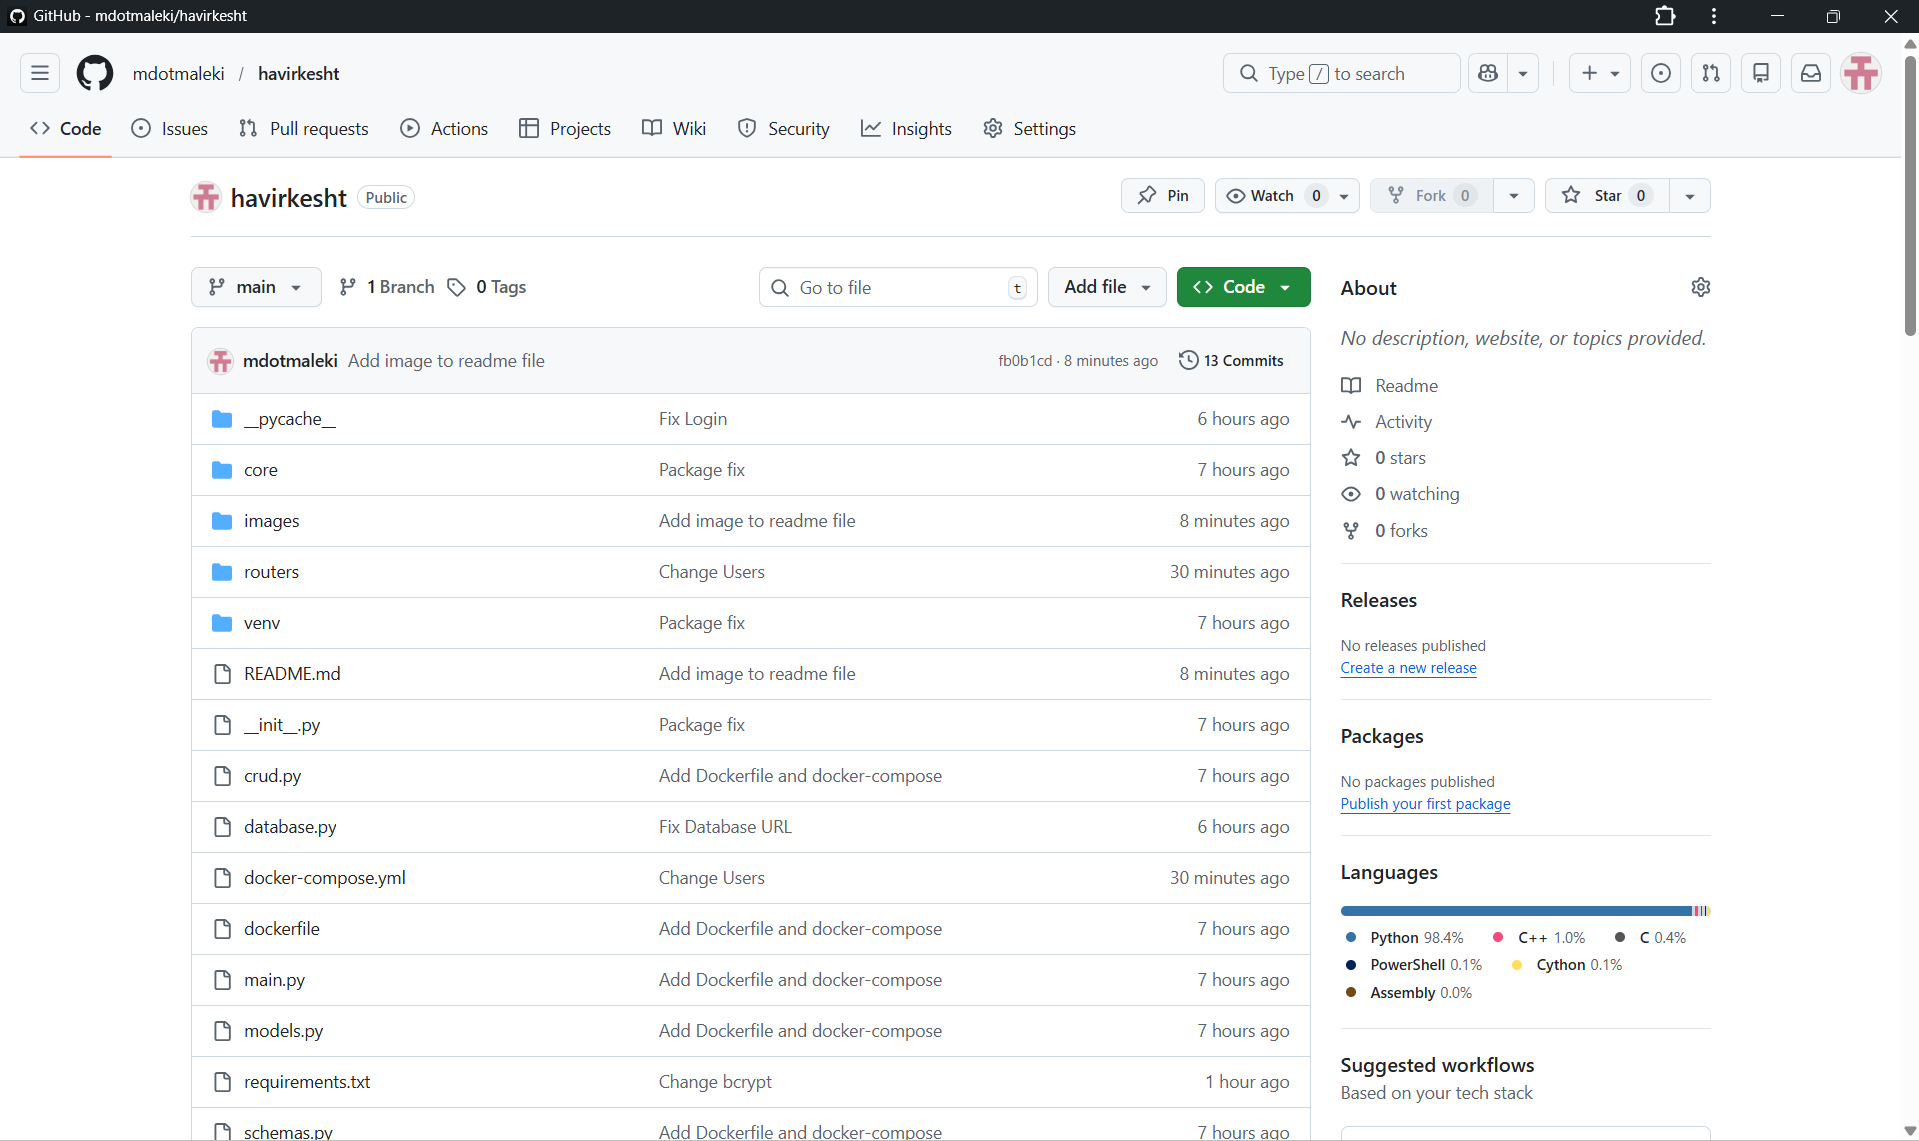
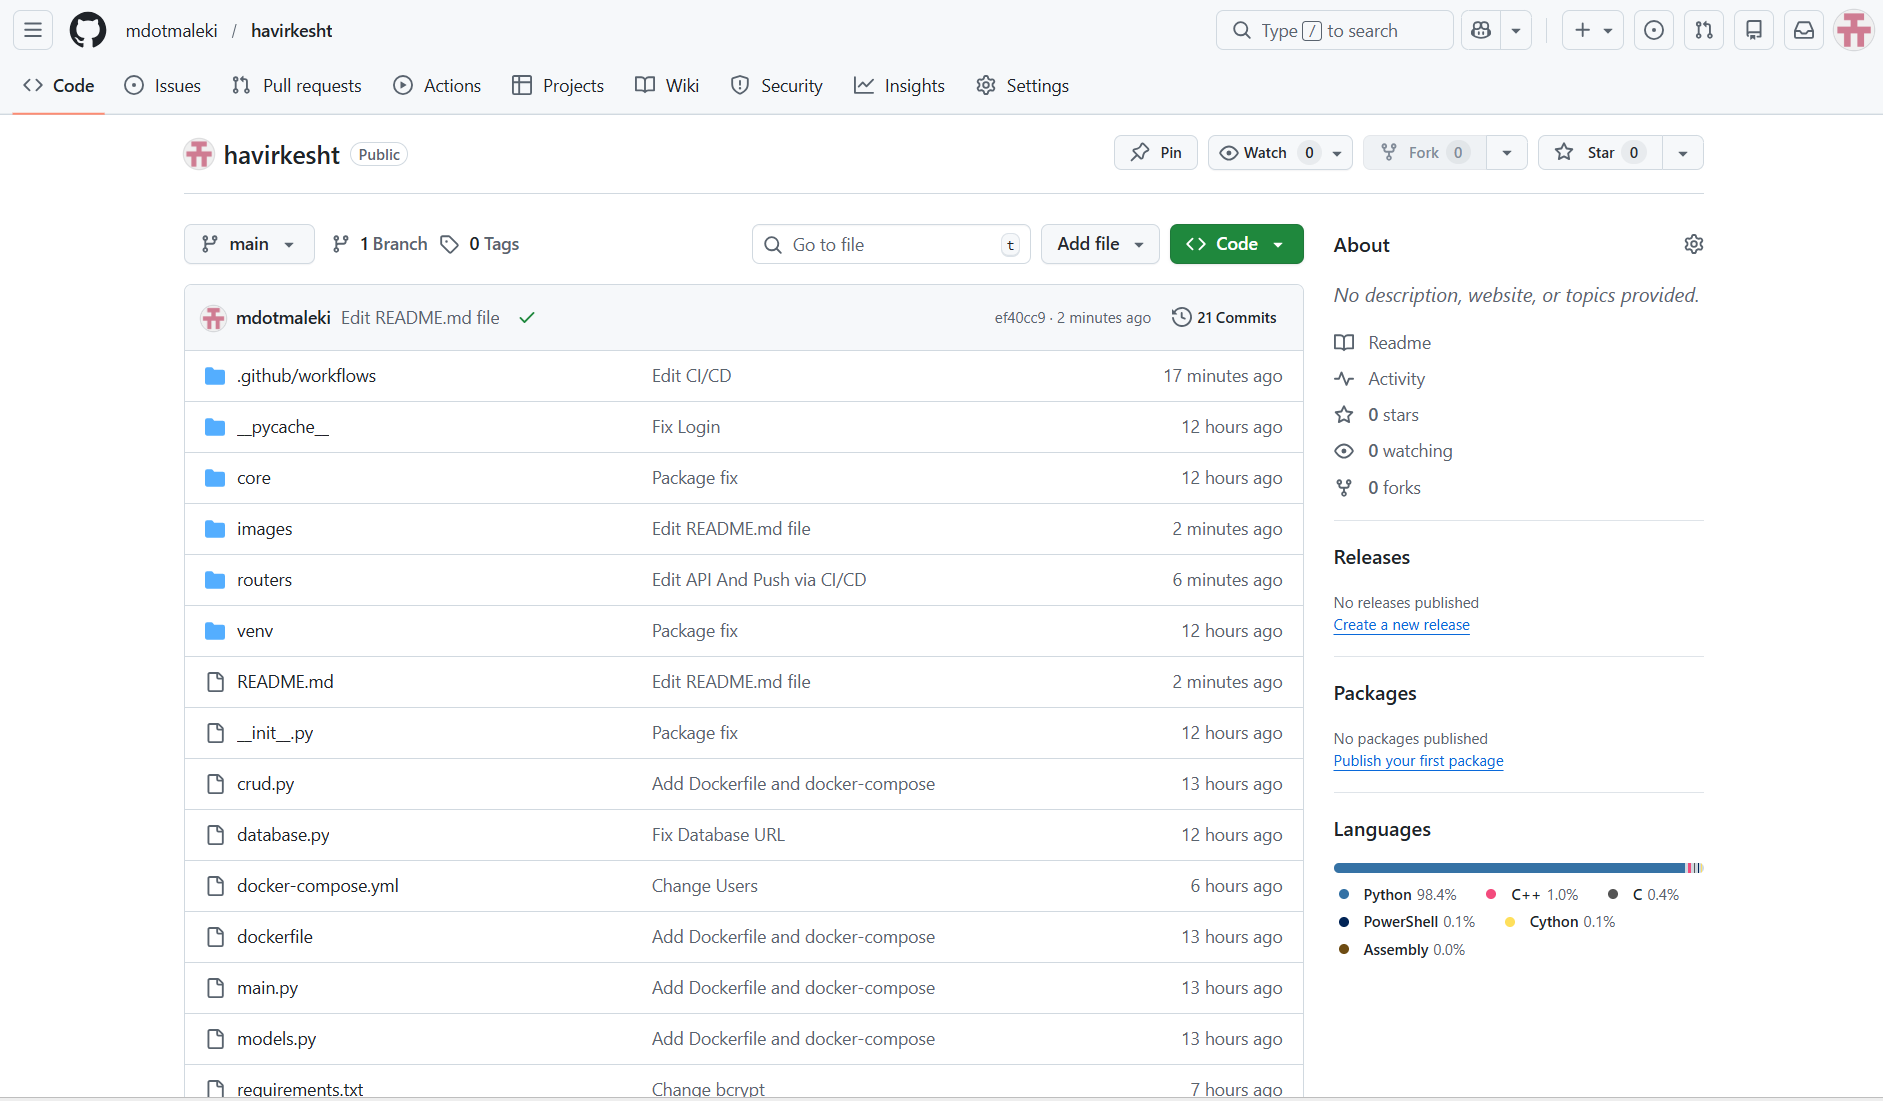
Edit README.md file

diff --git a/README.md b/README.md
@@ -1,4 +1,7 @@
-# HAVIRKESHT Backend
+# پروژه درس پایگاه داده پیشرفته
+# توسعه دهنده: میثم ملکی
+# شماره دانشجویی: 40411415015
+# نیمسال اول سال 1404 - 1405
 
 پروژه **HAVIRKESHT** یک سرویس بکاند مبتنی بر **FastAPI** است که برای مدیریت دادههای کشاورزی، مناطق، کاربران و عملیات مدیریتی طراحی شده است.  
 این سرویس با ساختار ماژولار، امنیت مبتنی بر JWT، و معماری قابل توسعه پیادهسازی شده است.
